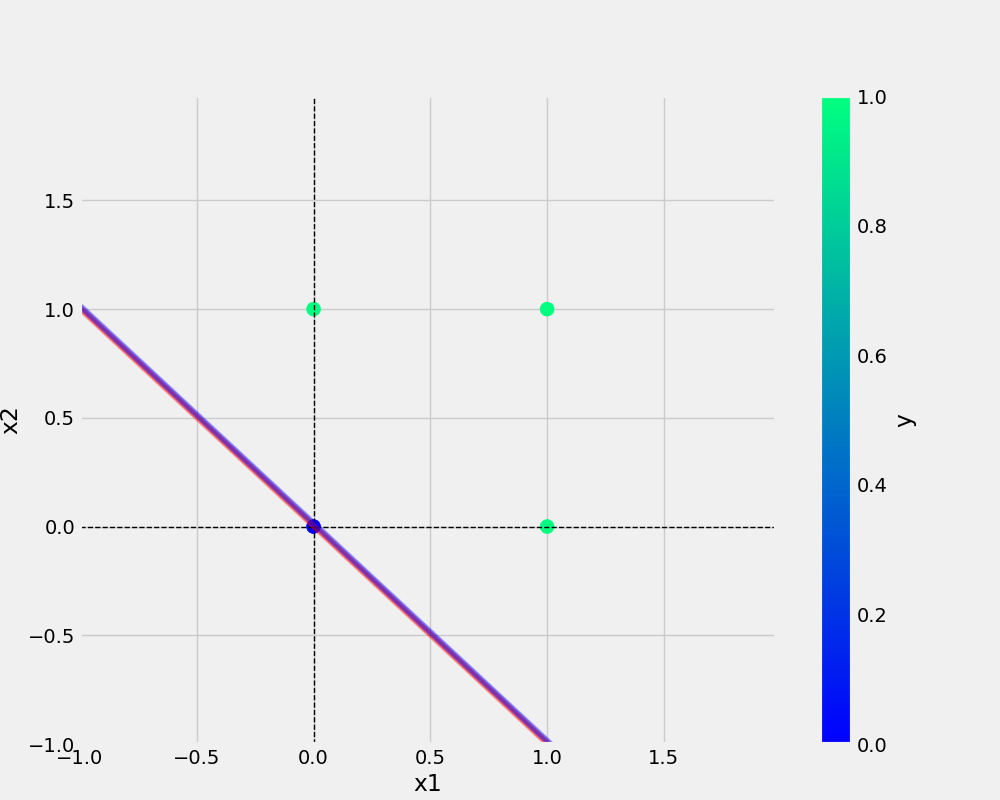
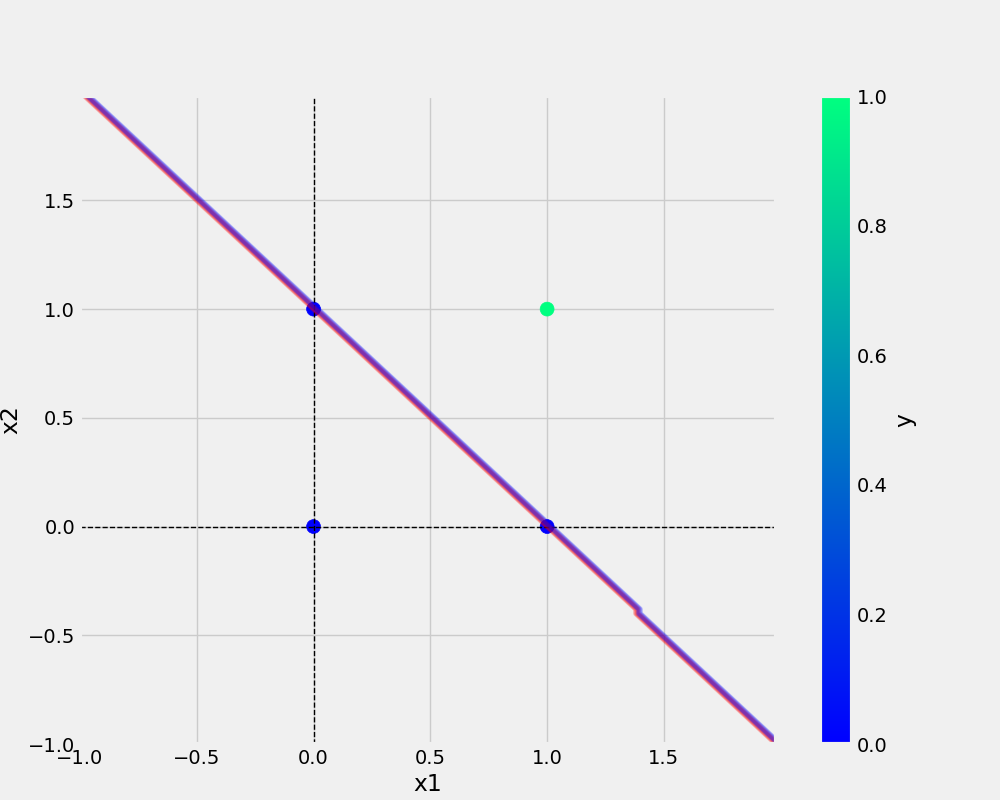
AND and OR Perceptron Example Model completed

diff --git a/Perceptron/utils/all_utils.py b/Perceptron/utils/all_utils.py
@@ -14,7 +14,7 @@ def prepare_data(df):
     return X, y
 def save_model(model,filename):
     # save the model to disk
-    filename = 'ANN_AND_model.sav'
+    filename = 'ANN_OR_model.sav'
     pickle.dump(model, open(filename, 'wb'))
 
  # load the model from disk
@@ -60,6 +60,6 @@ def save_plt(df, file_name, model):
     plot_dir = "plots"
     
     # save the plot fig to disk
-    filename = 'AND_Plot.png'
+    filename = 'OR_Plot.png'
     pickle.dump(model, open(filename, 'wb'))
     plt.savefig(filename)

diff --git a/Perceptron/or.py b/Perceptron/or.py
@@ -1,0 +1,26 @@
+from utils.model import Perceptron
+from utils.all_utils import prepare_data, save_plt, save_model
+import pandas as pd
+import numpy as np
+
+OR = {
+    "x1": [0,0,1,1],
+    "x2": [0,1,0,1],
+    "y": [0,1,1,1],
+}
+
+df = pd.DataFrame(OR)
+print(df)
+
+X,y =prepare_data(df)
+
+ETA = 0.3 #0 to 1
+EPOCHS = 10
+
+model= Perceptron(eta=ETA, epochs=EPOCHS)
+model.fit(X,y)
+
+_ = model.total_loss()
+
+save_model(model, filename="OR_model")
+save_plt(df, "OR_plot", model)

diff --git a/Perceptron/and.py b/Perceptron/and.py
@@ -7,7 +7,7 @@ import numpy as np
 AND = {
     "x1": [0,0,1,1],
     "x2": [0,1,0,1],
-    "y": [0,1,1,1],
+    "y": [0,0,0,1],
 }
 
 df = pd.DataFrame(AND)
